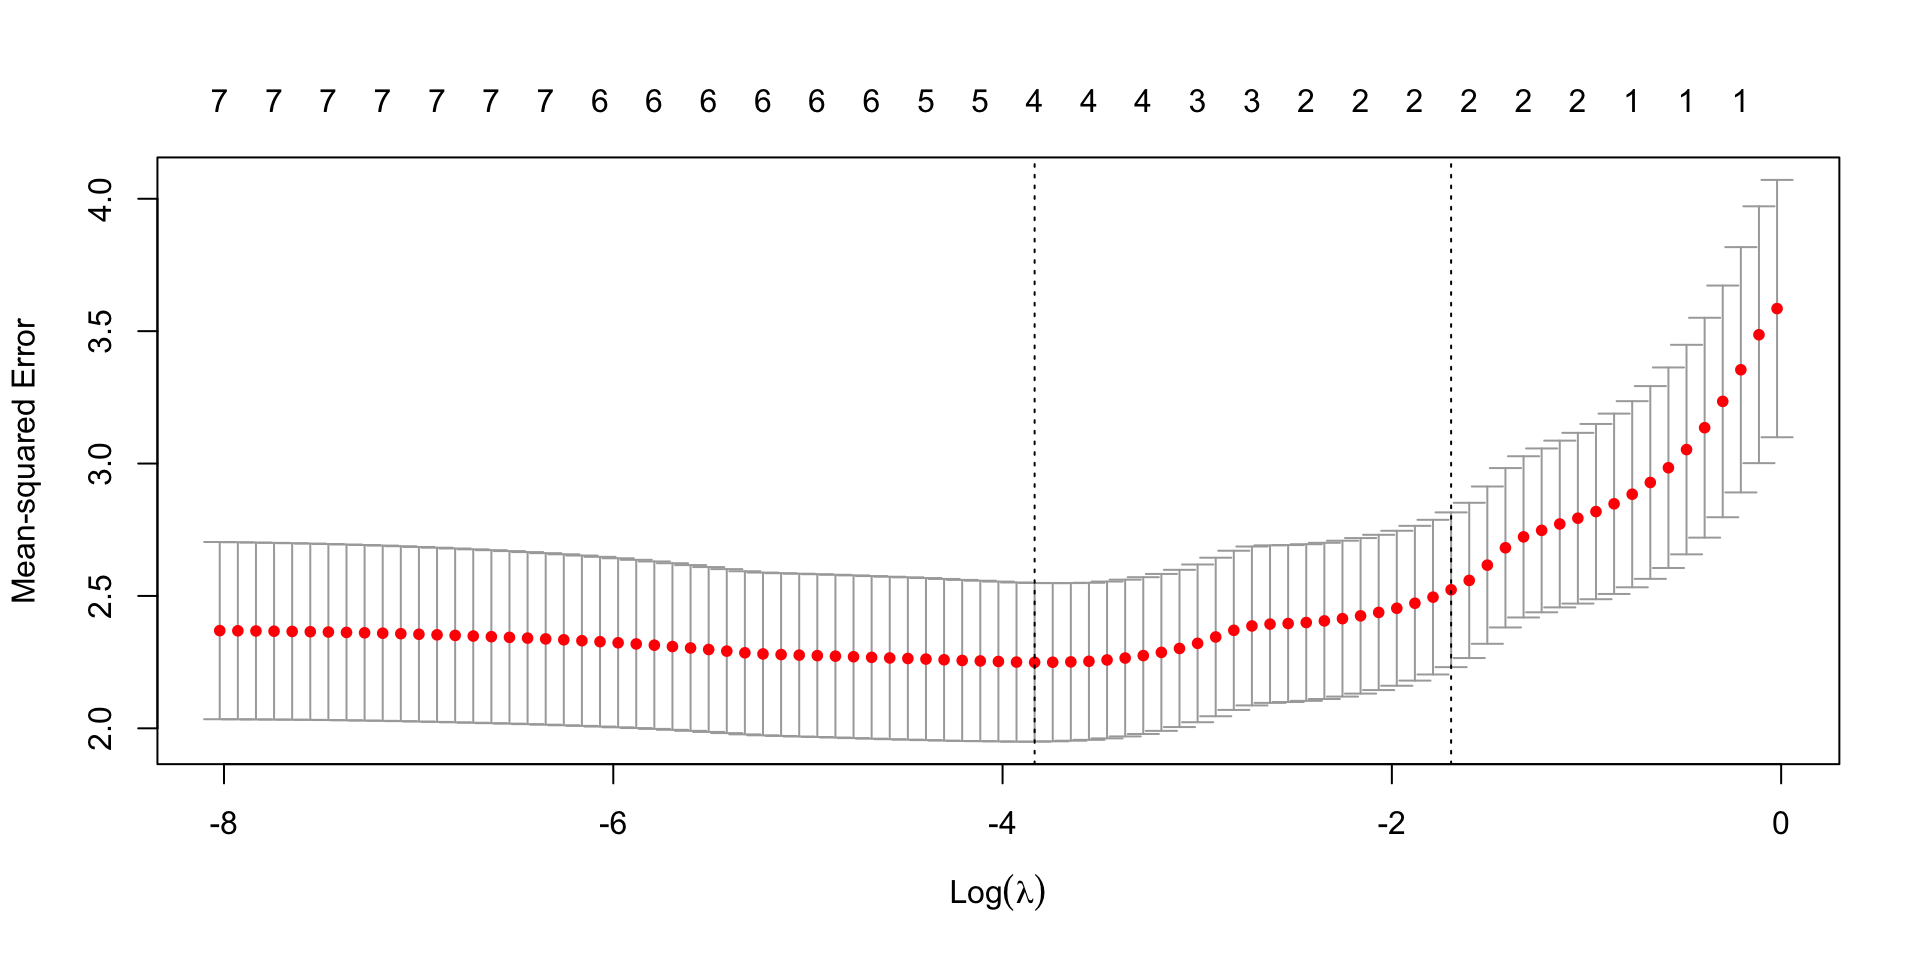
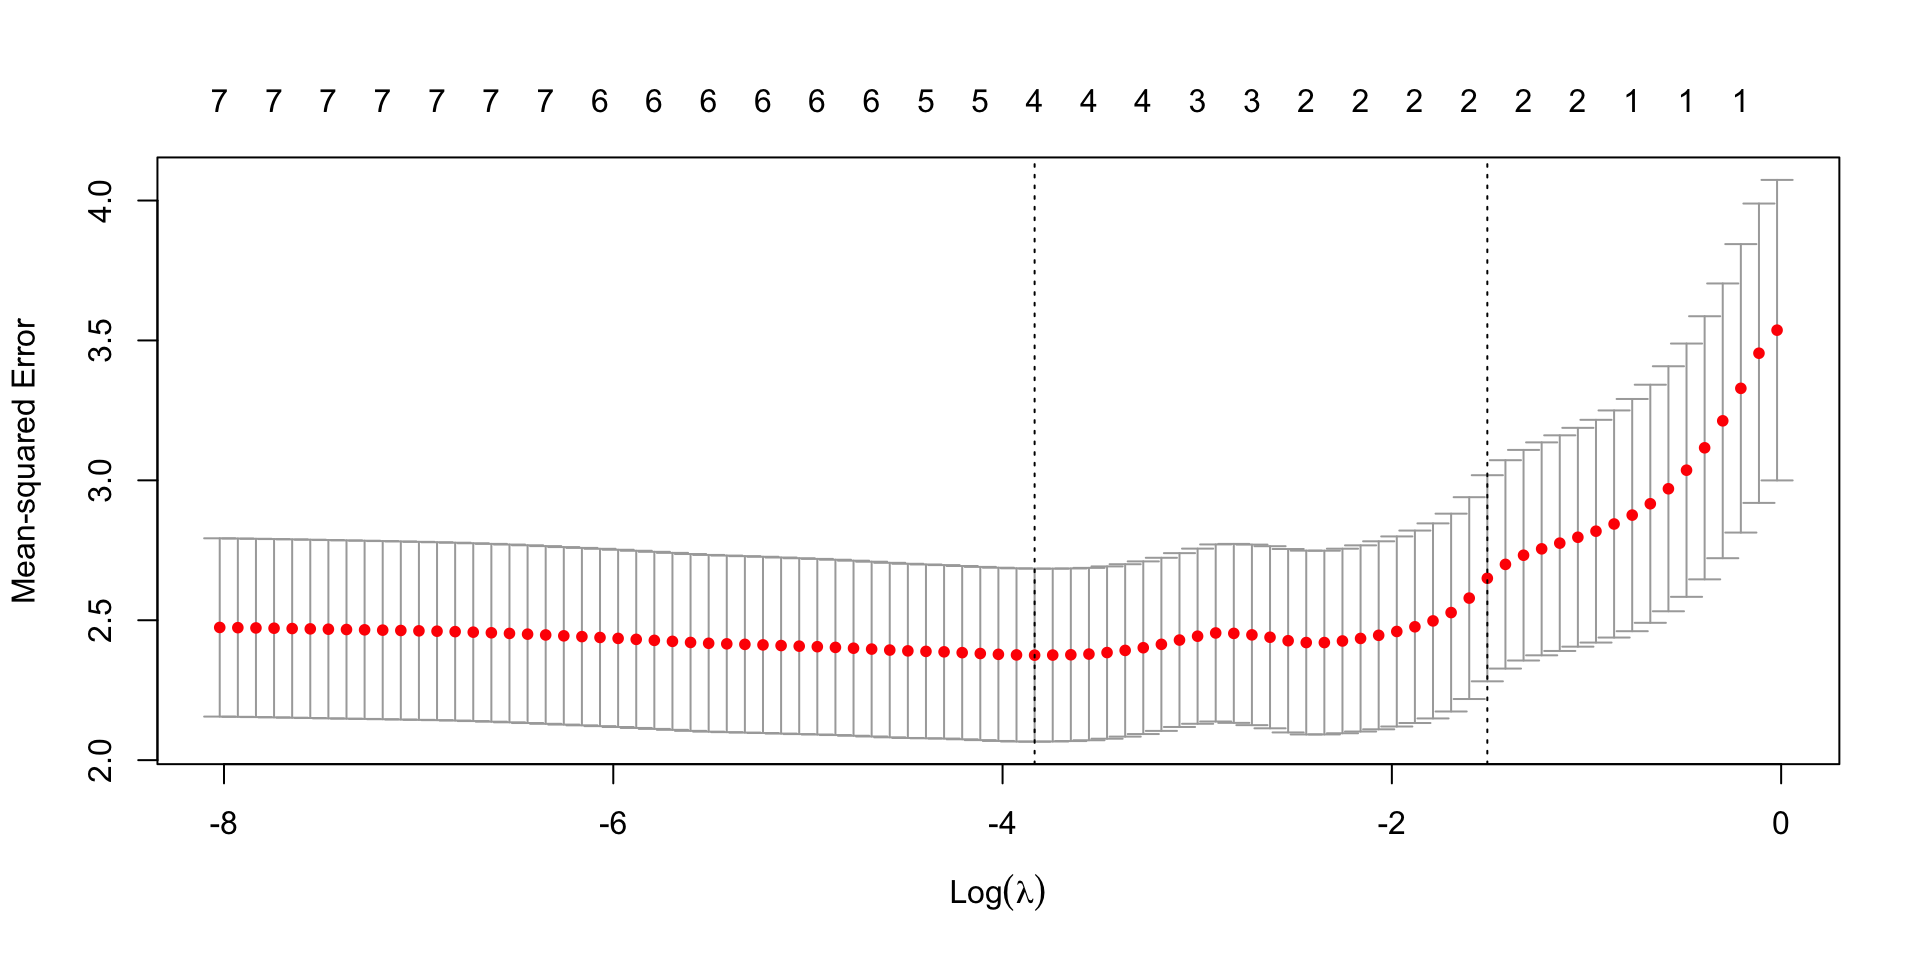
updates for ml

diff --git a/_site/12-ml.html b/_site/12-ml.html
@@ -10,7 +10,7 @@
 <link href="site_libs/quarto-html/quarto-syntax-highlighting.css" rel="stylesheet" id="quarto-text-highlighting-styles"><meta charset="utf-8">
   <meta name="generator" content="quarto-1.3.450">
 
-  <title>GLM 2026 - ML-2</title>
+  <title>GLM 2026 - ML-1</title>
   <meta name="apple-mobile-web-app-capable" content="yes">
   <meta name="apple-mobile-web-app-status-bar-style" content="black-translucent">
   <meta name="viewport" content="width=device-width, initial-scale=1.0, maximum-scale=1.0, user-scalable=no, minimal-ui">
@@ -389,7 +389,7 @@
     <div class="slides">
 
 <section id="title-slide" class="quarto-title-block center">
-  <h1 class="title">ML-2</h1>
+  <h1 class="title">ML-1</h1>
 
 <div class="quarto-title-authors">
 </div>
@@ -664,11 +664,11 @@ group      5 118    NaN     NA     NA  Inf   -Inf   -Inf    NA       NA    NA</c
 
 No pre-processing
 Resampling: Cross-Validated (10 fold) 
-Summary of sample sizes: 106, 106, 107, 106, 106, 107, ... 
+Summary of sample sizes: 106, 106, 107, 107, 106, 106, ... 
 Resampling results:
 
   RMSE      Rsquared   MAE     
-  1.514388  0.3928256  1.215193
+  1.520421  0.3974648  1.228652
 
 Tuning parameter 'intercept' was held constant at a value of TRUE</code></pre>
 </div>
@@ -973,8 +973,8 @@ Call:  cv.glmnet(x = X.matrix[, -1], y = stress.data$Stress, type.measure = "dev
 Measure: Mean-squared Error 
 
      Lambda Index Measure     SE Nonzero
-min 0.02159    42   2.249 0.2997       4
-1se 0.18349    19   2.523 0.2922       2</code></pre>
+min 0.02159    42   2.375 0.3092       4
+1se 0.22102    17   2.650 0.3683       2</code></pre>
 </div>
 </div>
 </section>
